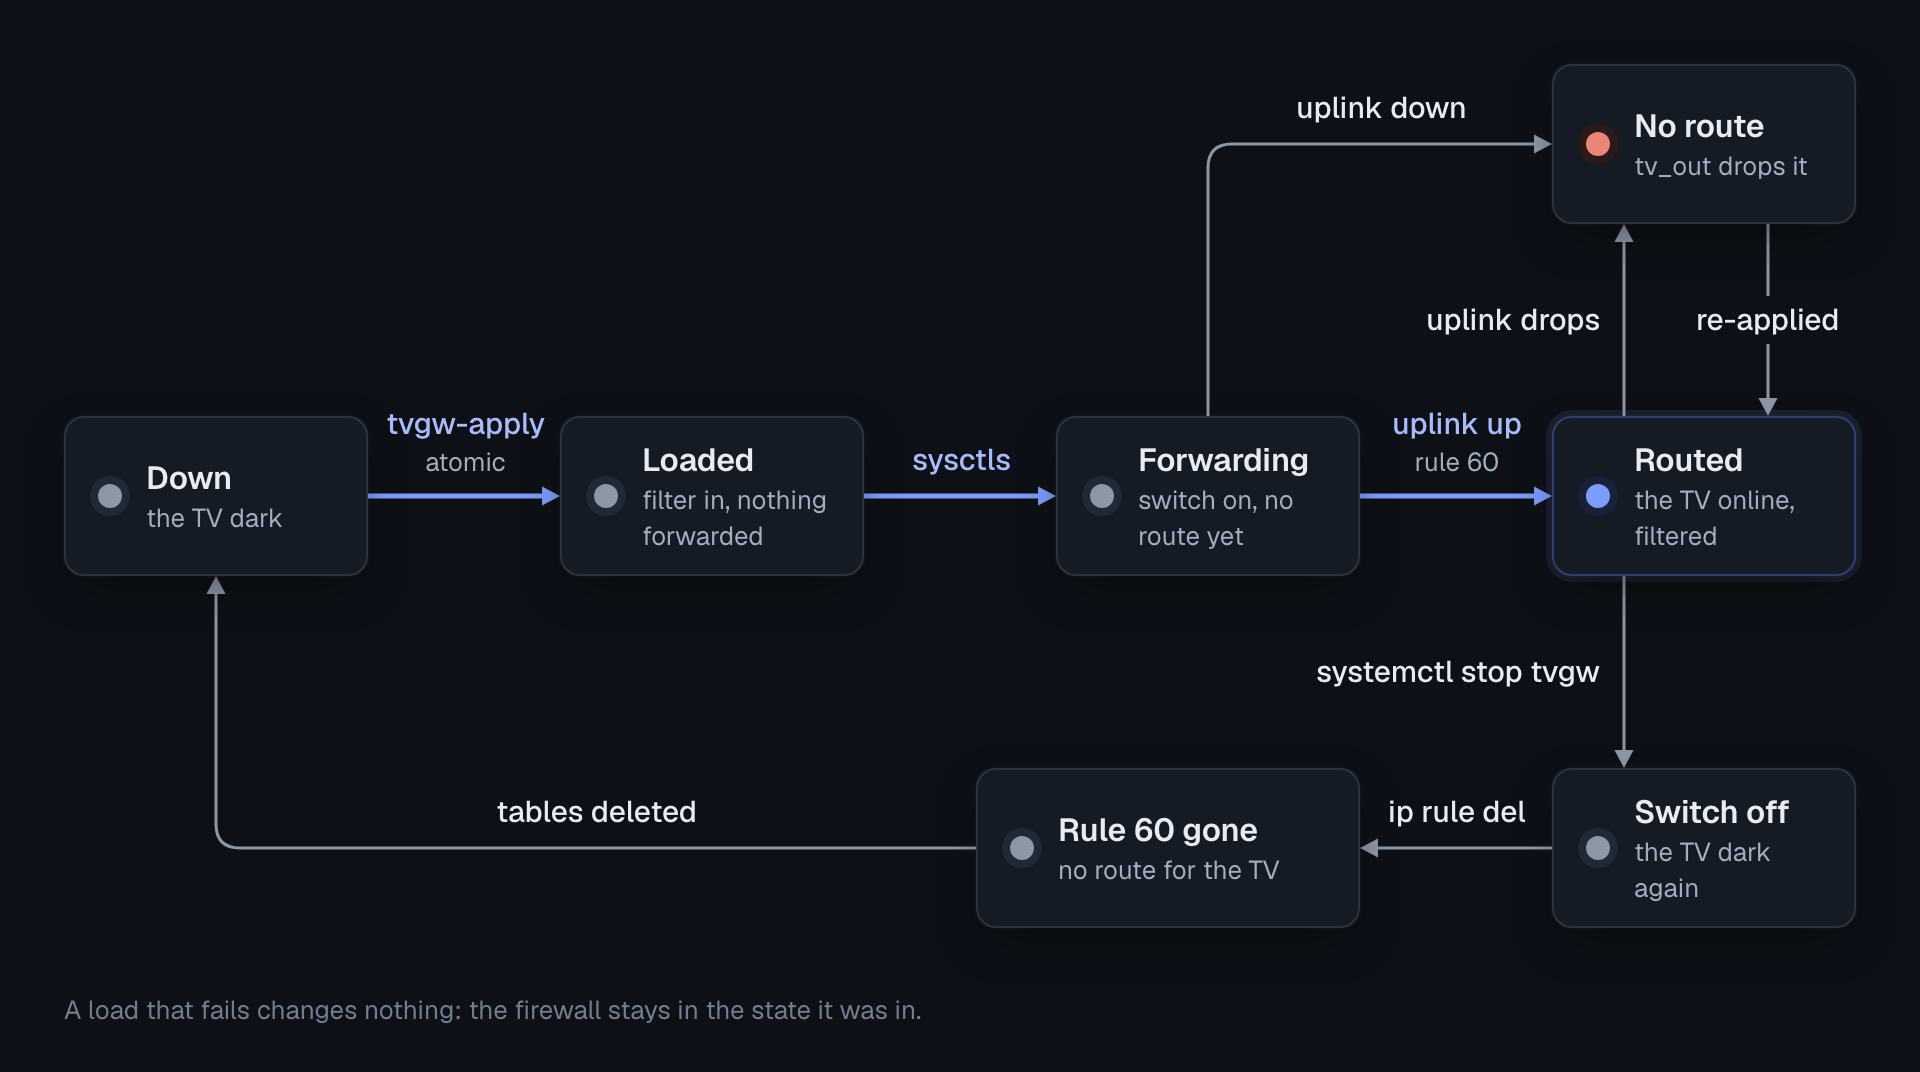
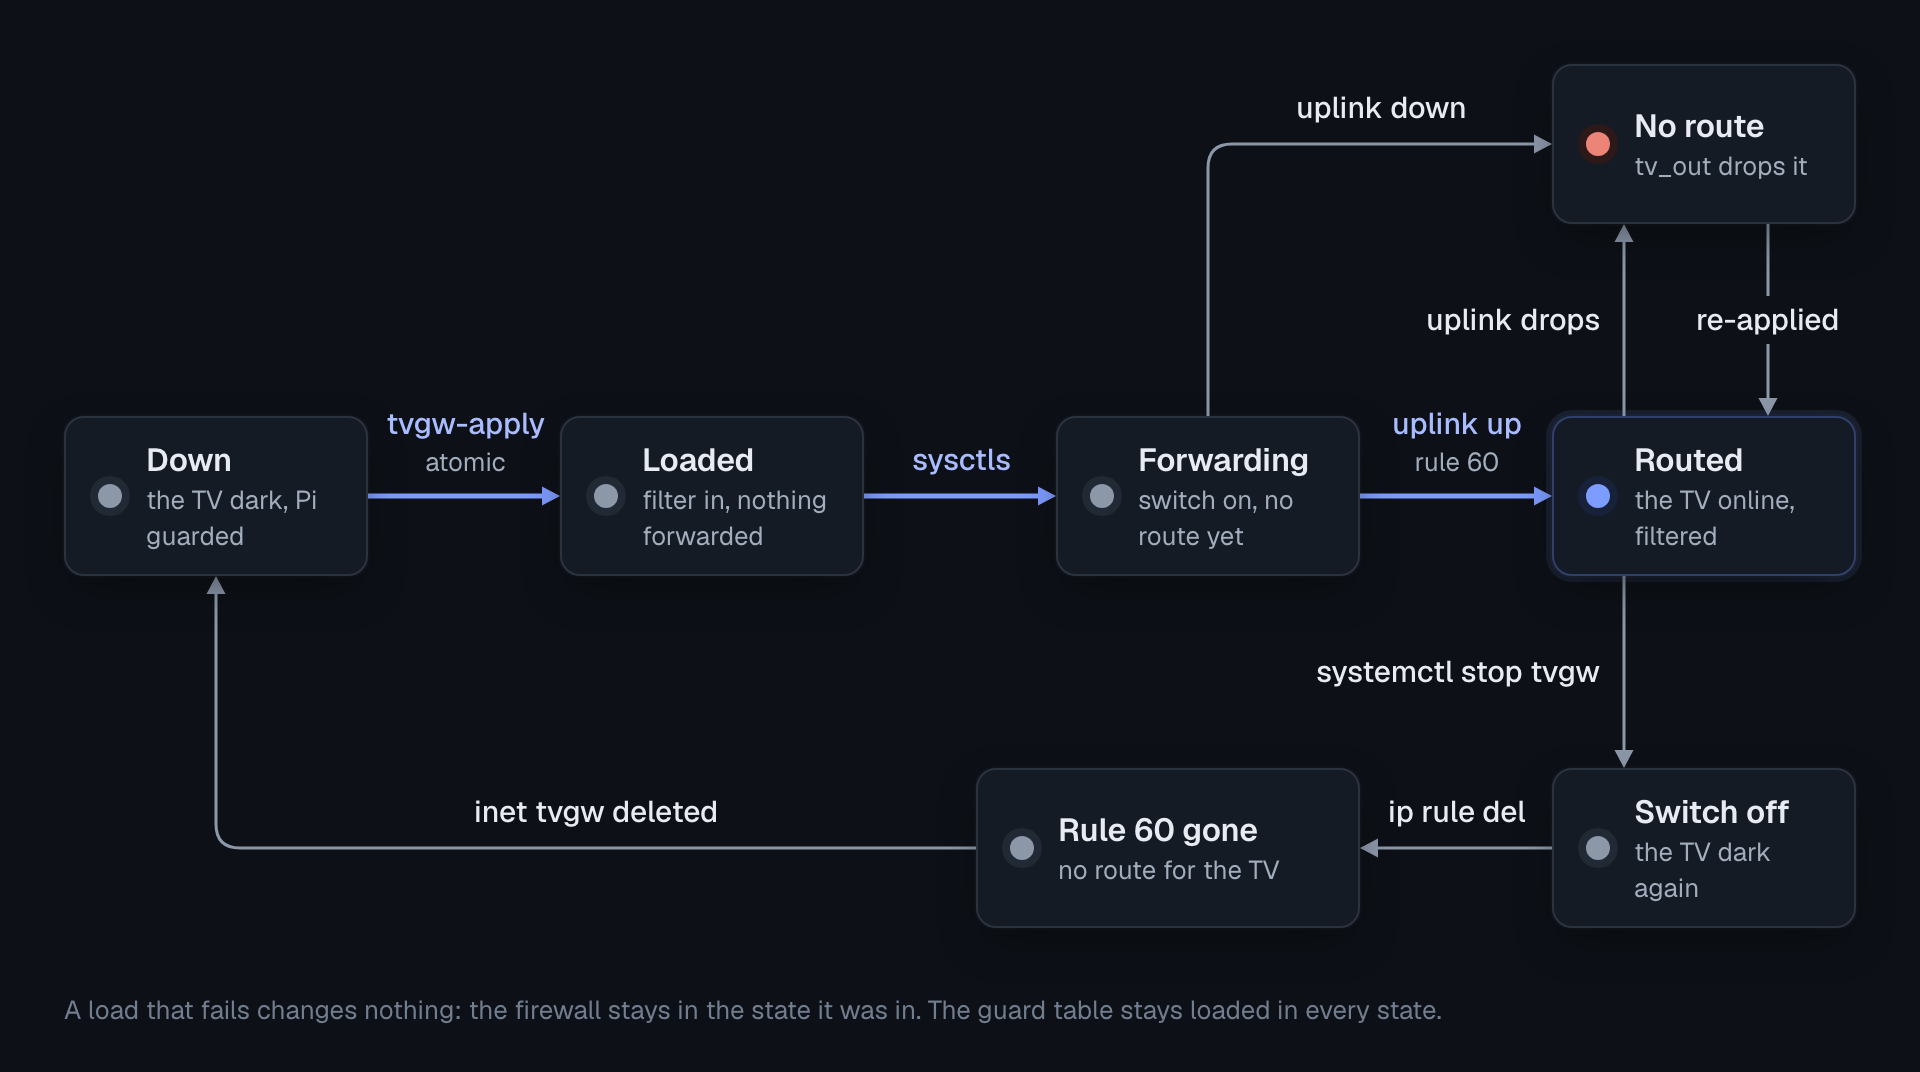
guard: fig-12 shows the guard staying loaded; quicker canary probes
- fig-12 (fail closed): the stop deletes inet tvgw, and the guard stays loaded in every
  state; re-rendered light and dark
- the probe agent sets SO_REUSEPORT, so a canary can listen on the wildcard and on one
  address with the same port, as section file 11's acceptance test asks
- the guard's closed-port probes wait half a second, not one and a half

Changed region(s): [[0.4688, 0.9235, 0.75, 0.9543], [0.0625, 0.4002, 0.1562, 0.5233], [0.25, 0.7388, 0.375, 0.7696]]

diff --git a/docs/diagrams/fig-12-fail-closed.html b/docs/diagrams/fig-12-fail-closed.html
@@ -704,7 +704,7 @@
     </div>
 
     <div class="card state" data-id="down" style="left:32px;top:208px;width:152px;height:80px">
-      <span class="sdot"></span><div class="body"><div class="title">Down</div><div class="sub" style="margin-top:0">the TV dark</div></div>
+      <span class="sdot"></span><div class="body"><div class="title">Down</div><div class="sub" style="margin-top:0">the TV dark, Pi guarded</div></div>
     </div>
     <div class="card state" data-id="loaded" style="left:280px;top:208px;width:152px;height:80px">
       <span class="sdot"></span><div class="body"><div class="title">Loaded</div><div class="sub" style="margin-top:0">filter in, nothing forwarded</div></div>
@@ -723,7 +723,7 @@
       <span class="sdot"></span><div class="body"><div class="title">Switch off</div><div class="sub" style="margin-top:0">the TV dark again</div></div>
     </div>
 
-    <div class="tl-note" style="left:32px;top:496px">A load that fails changes nothing: the firewall stays in the state it was in.</div>
+    <div class="tl-note" style="left:32px;top:496px">A load that fails changes nothing: the firewall stays in the state it was in. The guard table stays loaded in every state.</div>
 
     <div class="wire accent" data-from="down@r" data-to="loaded@l" data-label-at="above">tvgw-apply<span class="sub">atomic</span></div>
     <div class="wire accent" data-from="loaded@r" data-to="fwd@l" data-label-at="above">sysctls</div>
@@ -733,7 +733,7 @@
     <div class="wire strong" data-from="noroute@b:32" data-to="routed@t:32" data-label-at="on">re-applied</div>
     <div class="wire strong" data-from="routed@b:-40" data-to="fwdoff@t:-40" data-label-at="left">systemctl stop tvgw</div>
     <div class="wire strong" data-from="fwdoff@l" data-to="rulegone@r" data-label-at="above">ip rule del</div>
-    <div class="wire strong" data-from="rulegone@l" data-to="down@b" data-label-at="above">tables deleted</div>
+    <div class="wire strong" data-from="rulegone@l" data-to="down@b" data-label-at="above">inet tvgw deleted</div>
   </div>
   <figcaption class="fig-caption"><b>Fail closed.</b> Forwarding is the last thing <code>tvgw-apply</code> switches on and the first thing a stop switches off, so every state but one leaves the TV dark, never unfiltered.</figcaption>
 </figure>

diff --git a/tests/virtual/test_virtual_guard.py b/tests/virtual/test_virtual_guard.py
@@ -60,8 +60,9 @@ def guard_counters(net) -> dict[str, int]:
 
 def closed_probes() -> list[tuple[str, str, int, dict[str, str]]]:
     """Every canary, on the gateway address and on the LAN address; and DHCP's port from any other."""
-    probes = [("tcp", addr, port, {}) for addr in (vnet.GW_TV, LAN_ADDR) for port in (*CANARY_TCP, 8000)]
-    probes += [("udp", addr, port, {}) for addr in (vnet.GW_TV, LAN_ADDR) for port in (*CANARY_UDP, 5000)]
+    quick = {"timeout": "0.5"}  # a veth answers in microseconds: half a second of silence is a drop
+    probes = [("tcp", addr, port, quick) for addr in (vnet.GW_TV, LAN_ADDR) for port in (*CANARY_TCP, 8000)]
+    probes += [("udp", addr, port, quick) for addr in (vnet.GW_TV, LAN_ADDR) for port in (*CANARY_UDP, 5000)]
     return probes
 
 

diff --git a/tests/virtual/agent.py b/tests/virtual/agent.py
@@ -160,6 +160,10 @@ def serve(
     def listener(address: str, kind: int, port: int) -> socket.socket:
         s = socket.socket(socket.AF_INET, kind)
         s.setsockopt(socket.SOL_SOCKET, socket.SO_REUSEADDR, 1)
+        # (guard) a canary on the wildcard and another on one address, same port: Linux refuses the
+        # second bind beside a listening TCP socket unless both set SO_REUSEPORT
+        if hasattr(socket, "SO_REUSEPORT"):
+            s.setsockopt(socket.SOL_SOCKET, socket.SO_REUSEPORT, 1)
         s.bind((address, port))
         if kind == socket.SOCK_STREAM:
             s.listen(64)

diff --git a/deploy/nftables/README.md b/deploy/nftables/README.md
@@ -34,7 +34,7 @@ The script runs with `set -euo pipefail`, so it stops at the first command that 
 
 <picture>
   <source media="(prefers-color-scheme: dark)" srcset="../../docs/diagrams/fig-12-fail-closed.dark.png">
-  <img alt="The firewall's states in direct mode: Down, with the TV dark; tvgw-apply loads the filter atomically (Loaded, nothing forwarded); the sysctls switch forwarding on (Forwarding, no route yet); the uplink coming up adds rule 60 (Routed, the TV online and filtered). With the uplink down the state is No route, where tv_out drops the TV's traffic, and the dispatcher re-applies when it returns. systemctl stop tvgw switches forwarding off, deletes rule 60 and then the tables, back to Down. A load that fails changes nothing." src="../../docs/diagrams/fig-12-fail-closed.light.png" width="960">
+  <img alt="The firewall's states in direct mode: Down, with the TV dark; tvgw-apply loads the filter atomically (Loaded, nothing forwarded); the sysctls switch forwarding on (Forwarding, no route yet); the uplink coming up adds rule 60 (Routed, the TV online and filtered). With the uplink down the state is No route, where tv_out drops the TV's traffic, and the dispatcher re-applies when it returns. systemctl stop tvgw switches forwarding off, deletes rule 60 and then inet tvgw, back to Down, where the guard table keeps the Pi closed to the TV. A load that fails changes nothing, and the guard stays loaded in every state." src="../../docs/diagrams/fig-12-fail-closed.light.png" width="960">
 </picture>
 
 *The firewall's states in direct mode: a load that fails leaves the previous state, and forwarding is the last thing switched on and the first thing switched off.*

diff --git a/tests/virtual/README.md b/tests/virtual/README.md
@@ -54,7 +54,7 @@ Rule 60 (`from 10.10.10.0/24 lookup 100`) matches what the gateway itself sends 
 
 ## Running it
 
-It needs Linux, root, `nft`, `ip`, `unshare`, `mount` and `bash`; `conntrack` is optional (without it the re-apply test does not compare conntrack entries). Without them every test is skipped; with `TVGW_VIRTUAL_REQUIRED=1`, as CI sets it, a missing one is an error instead. It takes about 35 seconds.
+It needs Linux, root, `nft`, `ip`, `unshare`, `mount` and `bash`; `conntrack` is optional (without it the re-apply test does not compare conntrack entries). Without them every test is skipped; with `TVGW_VIRTUAL_REQUIRED=1`, as CI sets it, a missing one is an error instead. It takes about a minute and a half; the guard's module probes two dozen closed ports four times, each silent for half a second.
 
 In a Linux VM (a Multipass, Lima or UTM Ubuntu guest works; the suite never needs the VM's own network):
 
